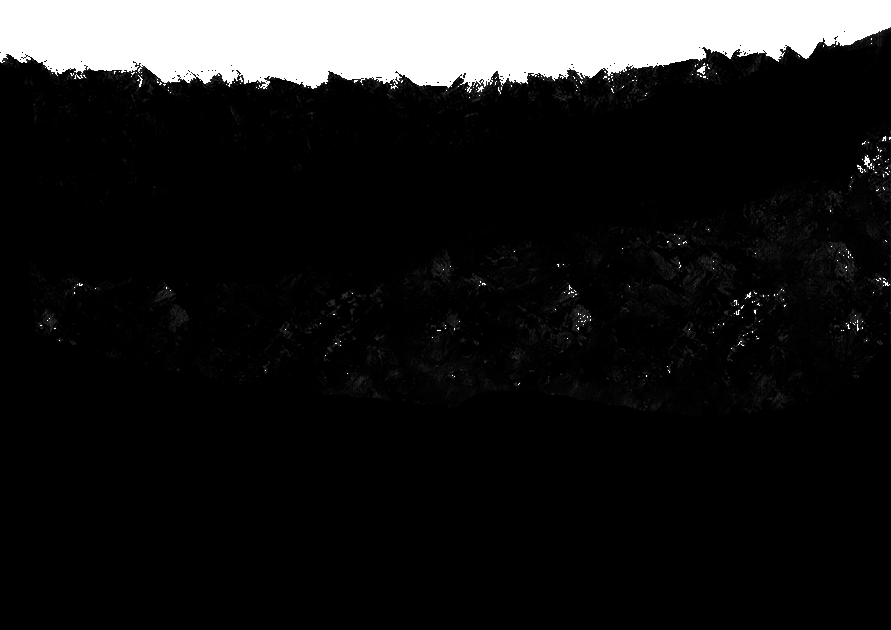
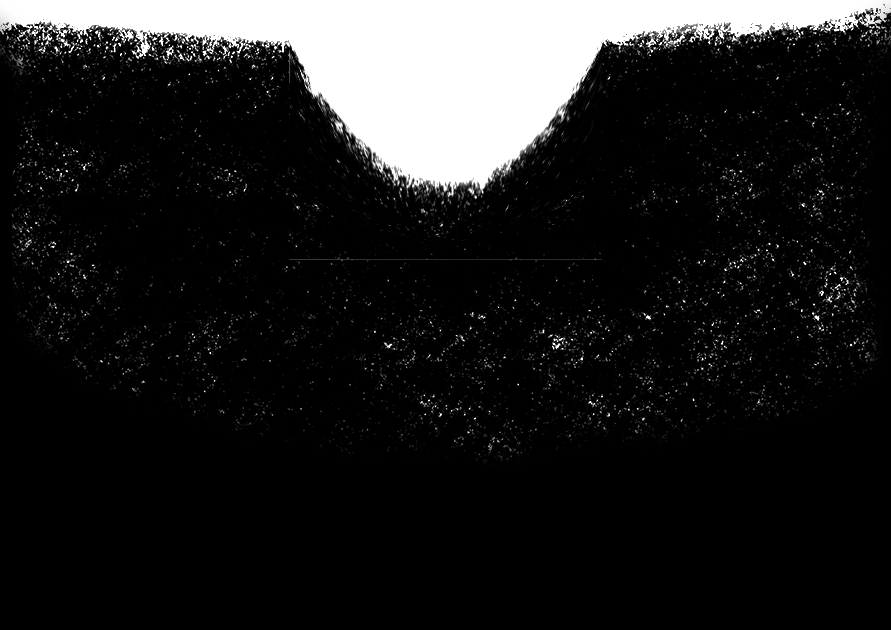
design: 시연 커버 필터 변경

diff --git a/frontend/src/features/self/components/CoverFilter.jsx b/frontend/src/features/self/components/CoverFilter.jsx
@@ -9,9 +9,6 @@ import { getFilter } from './rgbConverter'
 import FABRIC0 from 'assets/fabric/fabric000.png'
 import FABRIC1 from 'assets/fabric/fabric001.png'
 import FABRIC2 from 'assets/fabric/fabric002.png'
-import FABRIC3 from 'assets/fabric/fabric003.png'
-import FABRIC4 from 'assets/fabric/fabric004.png'
-import FABRIC5 from 'assets/fabric/fabric005.png'
 
 const CoverFilter = () => {
   const { selectedColor } = useSelector(state => state.colorSetList)
@@ -21,34 +18,10 @@ const CoverFilter = () => {
   const [isFilter, setIsFilter] = useState(false)
   const [hvalue, setHvalue] = useState(4.0)
   const [falue, setFalue] = useState(0)
-  const fabric = [FABRIC0, FABRIC1, FABRIC2, FABRIC3, FABRIC4, FABRIC5]
+  const fabric = [FABRIC0, FABRIC1, FABRIC2]
   const [colorString, setColorString] = useState('opacity(1.0)')
 
-  useEffect(() => {
-    if (session) {
-      session.on('signal:filter', (event) => {
-        const data = JSON.parse(event.data)
-        setHvalue(data.height)
-        setFalue(data.filter)
-        setIsFilter(true)
-      })
-    }
-  }, [session])
-
-  const handleFilter = () => {
-    const data = {
-      height: hvalue,
-      filter: falue
-    }
-    session.signal({
-      data: JSON.stringify(data),
-      to: [],
-      type: 'filter'
-    })
-  }
-
-
-  useEffect(() => {
+   useEffect(() => {
     if (selectedColor) {
       setColorString(getFilter(selectedColor))
     }
@@ -56,7 +29,7 @@ const CoverFilter = () => {
 
   const handelFabric = () => {
     const value = falue + 1
-    if (value > 5) {
+    if (value > 2) {
       const f = fabric[0]
       setImg(f)
       setFalue(0)
@@ -87,7 +60,6 @@ const CoverFilter = () => {
           </SIconButton>
           <SIconButton
             onClick={handelFabric}
-            onMouseLeave={handleFilter}
           >
             <WifiProtectedSetupIcon />
           </SIconButton>
@@ -96,7 +68,6 @@ const CoverFilter = () => {
               value={hvalue}
               size="small"
               step={0.1} min={1.0} max={6.0}
-              onMouseLeave={handleFilter}
               onChange={(event, newValue) => {
                 if (typeof newValue === 'number') {
                   setHvalue(newValue);

diff --git a/frontend/src/features/consulting/consultingRoom/components/CoverFilter.jsx b/frontend/src/features/consulting/consultingRoom/components/CoverFilter.jsx
@@ -9,9 +9,6 @@ import { getFilter } from './rgbConverter'
 import FABRIC0 from 'assets/fabric/fabric000.png'
 import FABRIC1 from 'assets/fabric/fabric001.png'
 import FABRIC2 from 'assets/fabric/fabric002.png'
-import FABRIC3 from 'assets/fabric/fabric003.png'
-import FABRIC4 from 'assets/fabric/fabric004.png'
-import FABRIC5 from 'assets/fabric/fabric005.png'
 
 const CoverFilter = () => {
   const { selectedColor } = useSelector(state => state.colorSetList)
@@ -20,7 +17,7 @@ const CoverFilter = () => {
   const [isFilter, setIsFilter] = useState(false)
   const [hvalue, setHvalue] = useState(4.0)
   const [falue, setFalue] = useState(0)
-  const fabric = [FABRIC0, FABRIC1, FABRIC2, FABRIC3, FABRIC4, FABRIC5]
+  const fabric = [FABRIC0, FABRIC1, FABRIC2]
   const [colorString, setColorString] = useState('opacity(1.0)')
 
   useEffect(() => {
@@ -56,7 +53,7 @@ const CoverFilter = () => {
 
   const handelFabric = () => {
     const value = falue + 1
-    if (value > 5) {
+    if (value > 2) {
       const f = fabric[0]
       setImg(f)
       setFalue(0)
@@ -86,8 +83,7 @@ const CoverFilter = () => {
             <GradientIcon />
           </SIconButton>
           <SIconButton
-            onClick={handelFabric}
-            onMouseLeave={handleFilter}
+            onClick={() => { handelFabric(); handleFilter() }}
           >
             <WifiProtectedSetupIcon />
           </SIconButton>
